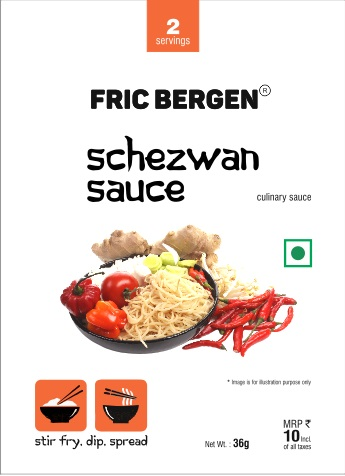
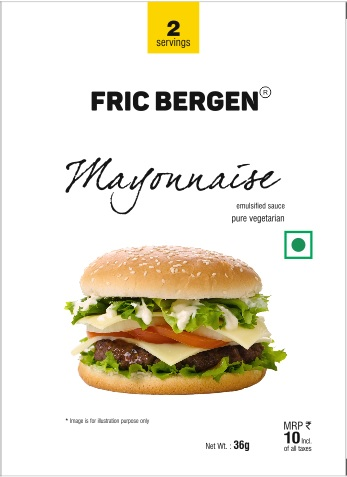
sku order added

diff --git a/api/addproduct.php b/api/addproduct.php
@@ -36,7 +36,9 @@
 	$filename = preg_replace("/[^a-zA-Z0-9_-]/", "", $pname.$pshort) . ".jpg"; // Clean file name
 	$destination = "../imgproduct/" . $filename;
 	
-	mysqli_query($con,"insert into skus(productname,productid,catid,scatid, brandname,quantity,image,creationdate,createdby) values('$pname','$pshort','$catid','$scatid','FRIC BERGEN','0','$filename','$datetime','0')") or die(mysqli_error($con));
+	$prodective_cell = isset($prodective_cell) ? $prodective_cell : 0;
+	
+	mysqli_query($con,"insert into skus(productname,productid,catid,scatid, brandname,quantity,image,creationdate,createdby,prodective_cell) values('$pname','$pshort','$catid','$scatid','FRIC BERGEN','0','$filename','$datetime','0','$prodective_cell')") or die(mysqli_error($con));
 	if(mysqli_affected_rows($con)>0)
 	{  
 		if (move_uploaded_file($tmpname, $destination)) {
@@ -50,7 +52,27 @@
 
   else if(isset($_GET['show']))
   {
-     $res=mysqli_query($con,"SELECT skus.id,skus.productname,skus.productid,sku_unit.name AS unit ,skus.rate,skus.brandname,parduct_sub_cat.cmrp As mrp,product_cat.name AS catname,parduct_sub_cat.name AS sub_catname,skus.image FROM skus LEFT JOIN product_cat on product_cat.id=skus.catid LEFT JOIN parduct_sub_cat on parduct_sub_cat.id= skus.scatid  LEFT JOIN sku_unit on sku_unit.id=parduct_sub_cat.cunit");
+   //  $res=mysqli_query($con,"SELECT skus.id,skus.productname,skus.productid,sku_unit.name AS unit ,skus.rate,skus.brandname,parduct_sub_cat.cmrp As mrp,product_cat.name AS catname,parduct_sub_cat.name AS sub_catname,skus.image,skus.prodective_cell FROM skus LEFT JOIN product_cat on product_cat.id=skus.catid LEFT JOIN parduct_sub_cat on parduct_sub_cat.id= skus.scatid  LEFT JOIN sku_unit on sku_unit.id=parduct_sub_cat.cunit ORDER BY skus.prodective_cell ASC");
+
+	 $res = mysqli_query($con, "
+SELECT 
+    skus.id, 
+    skus.productname, 
+    skus.productid, 
+    sku_unit.name AS unit,
+    skus.rate, 
+    skus.brandname, 
+    parduct_sub_cat.cmrp AS mrp,
+    product_cat.name AS catname, 
+    parduct_sub_cat.name AS sub_catname,
+    skus.image, 
+    skus.prodective_cell
+FROM skus
+LEFT JOIN product_cat ON product_cat.id = skus.catid
+LEFT JOIN parduct_sub_cat ON parduct_sub_cat.id = skus.scatid
+LEFT JOIN sku_unit ON sku_unit.id = parduct_sub_cat.cunit
+ORDER BY skus.prodective_cell ASC
+") or die("SQL Error: " . mysqli_error($con));
 
 	 $response=array();
 	 while($row=mysqli_fetch_array($res))
@@ -62,9 +84,10 @@
 		 "mrp"=>$row["mrp"],
 		 "rate"=>$row["rate"],
 		 "brandname"=>$row["brandname"],
-		 "image"=>$row["image"]);
+		 "image"=>$row["image"],
+		 "prodective_cell"=>$row["prodective_cell"]);
 		 $response[]=$rr;
-     }	 
+     }
 	 $data=json_encode($response);
 	 echo $data;
   }
@@ -121,9 +144,10 @@
 		  $destination = "../imgproduct/" . $filename;
 	  
 		  // Update query
-		  $query = "UPDATE skus SET productname=?, productid=?, catid=?, scatid=?, image=? WHERE id=?";
+		  $prodective_cell = isset($prodective_cell) ? $prodective_cell : 0;
+		  $query = "UPDATE skus SET productname=?, productid=?, catid=?, scatid=?, image=?, prodective_cell=? WHERE id=?";
 		  $stmt = mysqli_prepare($con, $query);
-		  mysqli_stmt_bind_param($stmt, "ssissi", $pname, $pshort, $catid, $scatid, $filename, $pid);
+		  mysqli_stmt_bind_param($stmt, "ssissii", $pname, $pshort, $catid, $scatid, $filename, $prodective_cell, $pid);
 		  mysqli_stmt_execute($stmt);
 	  
 		  if (mysqli_stmt_affected_rows($stmt) > 0 || !file_exists($destination)) {
@@ -147,8 +171,8 @@
 	   {
 		   
 	      //$filename=$pname.$pshort.".jpg";
-		  
-	      mysqli_query($con,"update skus set productname='$pname',productid='$pshort',catid='$catid',scatid='$scatid' where id='$pid'") or die(mysqli_error($con));
+		  $prodective_cell = isset($prodective_cell) ? $prodective_cell : 0;
+	      mysqli_query($con,"update skus set productname='$pname',productid='$pshort',catid='$catid',scatid='$scatid',prodective_cell='$prodective_cell' where id='$pid'") or die(mysqli_error($con));
 	      if(mysqli_affected_rows($con)>0)
        	  {
 	          echo"success";  

diff --git a/editskus.php b/editskus.php
@@ -2,7 +2,7 @@
 <?php $title="Products"?>
 <?php require("header.php");?>
 
-<?php 
+<?php
   $pid="";
   $pname="";
   $pshort="";
@@ -10,6 +10,7 @@
   $pmrp="";
   $prate="";
   $pimage="";
+  $prodective_cell="";
 
   if(isset($_GET['editid']))
   {
@@ -18,14 +19,14 @@
 	if($row=mysqli_fetch_array($res))
 	{
 
-		
+
     $pid=$row[0];
 		$pname=$row[1];
 		$pshort=$row[2];
 		$punit=$row[3];
 		$pmrp=$row[4];
 		$prate=$row[5];
-    
+
     $catid=$row[8];
     $scatid=$row[9];
     $cunit=$row[10];
@@ -34,6 +35,7 @@
     $discount=$row[13];
 
     $pimage=$row[14];
+    $prodective_cell=$row[15];
 	}
   }
 ?>
@@ -109,16 +111,20 @@
                 <div class="form-group">
                   <label for="scatid">Select Sub Category</label>
                   <select  class="form-control" name="scatid" id="scatid" required>
-                 
+
                    <option value="">Select Product Sub Category</option>
                     <?php $res=mysqli_query($con,"SELECT id,name FROM parduct_sub_cat Where cat_id='$catid' order by name "); while($row=mysqli_fetch_array($res)){$sctselect=$row['id']==$scatid ? 'selected' :'';?>
                    <option value="<?php echo $row['id'];?>" <?php echo $sctselect; ?> ><?php echo $row['name'];?></option>
-                   <?php }?>    
+                   <?php }?>
 
                   </select>
                 </div>
-                
-              
+
+                <div class="form-group">
+                  <label for="prodective_cell">Order/Position</label>
+                  <input type="number" class="form-control" name="prodective_cell" id="prodective_cell" value="<?php echo $prodective_cell;?>" placeholder="Enter Order/Position" min="0"/>
+                </div>
+
 
 
 
@@ -201,16 +207,18 @@
 		var pshort = $('#pshort').val();
     var catid = $('#catid').val();
     var scatid = $('#scatid').val();
+    var prodective_cell = $('#prodective_cell').val();
 		if(files!=null)
 		{
         fd.append('pimage',files);
 		}
-		
+
 		fd.append('pid',pid);
 		fd.append('pname',pname);
 		fd.append('pshort',pshort);
     fd.append('catid',catid);
     fd.append('scatid',scatid);
+    fd.append('prodective_cell',prodective_cell);
 		
            progress.fadeIn("slow");
         $.ajax({

diff --git a/product-cat.php b/product-cat.php
@@ -74,6 +74,7 @@
                    
                     
                           <th>Category</th>
+                          <th>Position</th>
                         </tr>
                         </thead>
                         <tbody>
@@ -129,10 +130,14 @@
                   <input type="text" class="form-control" name="name" id="name" placeholder="Enter Name"  required="required"/>
                 </div>
                
+                  <div class="form-group controls">
+                  <label for="empname">Position</label>
+                  <input type="text" class="form-control" name="position" id="position" placeholder="Enter Position"  required="required"/>
+                </div>
       
              </div> <!-- col 4 close--> 
-             
-            
+    
+          
           </div>
          </div>
               <!-- /.box-body -->
@@ -224,7 +229,8 @@
 
 
                 {
-              data:'name'
+              data:'name',
+              data:'name',
             }
 
           
@@ -385,12 +391,14 @@ function sendData(){
     
     var name = $('#name').val();
     var state_id = $('#state_id').val();
-
+   var position=$("#position").val();
 
     
 
     fd.append('name',name);
     fd.append('state_id',state_id);
+    fd.append('position',position);
+
     
         progress.fadeIn("slow");
         $.ajax({
@@ -410,6 +418,7 @@ function sendData(){
     
                 $('#name').val('');
                 $('#state_id').val('');
+                $('#position').val('');
     
           
                 }else{

diff --git a/skus.php b/skus.php
@@ -74,7 +74,7 @@
 													<th>Short Name</th>
 													<th>UNIT</th>
 													<th>MRP</th>
-								
+													<th>Order</th>
                           <th>Image</th>
 												</tr>
 												</thead>
@@ -147,13 +147,17 @@
                   <label for="scatid">Select Sub Category</label>
                   <select  class="form-control" name="scatid" id="scatid" required>
                    <option value="">Select Product Sub Category</option>
-                               
+
                   </select>
                 </div>
 
+                <div class="form-group">
+                  <label for="prodective_cell">Order/Position</label>
+                  <input type="number" class="form-control" name="prodective_cell" id="prodective_cell" value="0" placeholder="Enter Order/Position" min="0"/>
+                </div>
 
-                
-         
+
+
 
 
 
@@ -253,7 +257,7 @@
 						  {
 							data:'productname'
 						},
-						{data:'productid'},{data:'unit'},{data:'mrp'},{data:'image',render:function(value){
+						{data:'productid'},{data:'unit'},{data:'mrp'},{data:'prodective_cell'},{data:'image',render:function(value){
 							return "<img src='imgproduct/"+value+"' class='img img-thumbnail' style='width:100px; height:100px;'/>";
 							}}
 					  ]
@@ -288,6 +292,7 @@ function sendData(){
 		var pshort = $('#pshort').val();;
     var catid = $('#catid').val();
     var scatid = $('#scatid').val();
+    var prodective_cell = $('#prodective_cell').val();
 
 
 
@@ -296,6 +301,7 @@ function sendData(){
 		fd.append('pshort',pshort);
     fd.append('catid',catid);
     fd.append('scatid',scatid);
+    fd.append('prodective_cell',prodective_cell);
 
            progress.fadeIn("slow");
         $.ajax({

diff --git a/connect.php b/connect.php
@@ -12,7 +12,7 @@
 	//define('DB_PASS','cartroute#123456'); //cartroute#123456
 /*>>>>>>> 33844e7bad3ffdc0811aed4112ae5646b033ba4f*/
 	//define('DB_NAME','vivanwmp_cartroute');
-	define('DB_NAME','cartroote');
+	define('DB_NAME','vivanwmp_cartroute');
 	$con=mysqli_connect(DB_HOST,DB_USER,DB_PASS,DB_NAME) or die('Unable to connect');
 
 